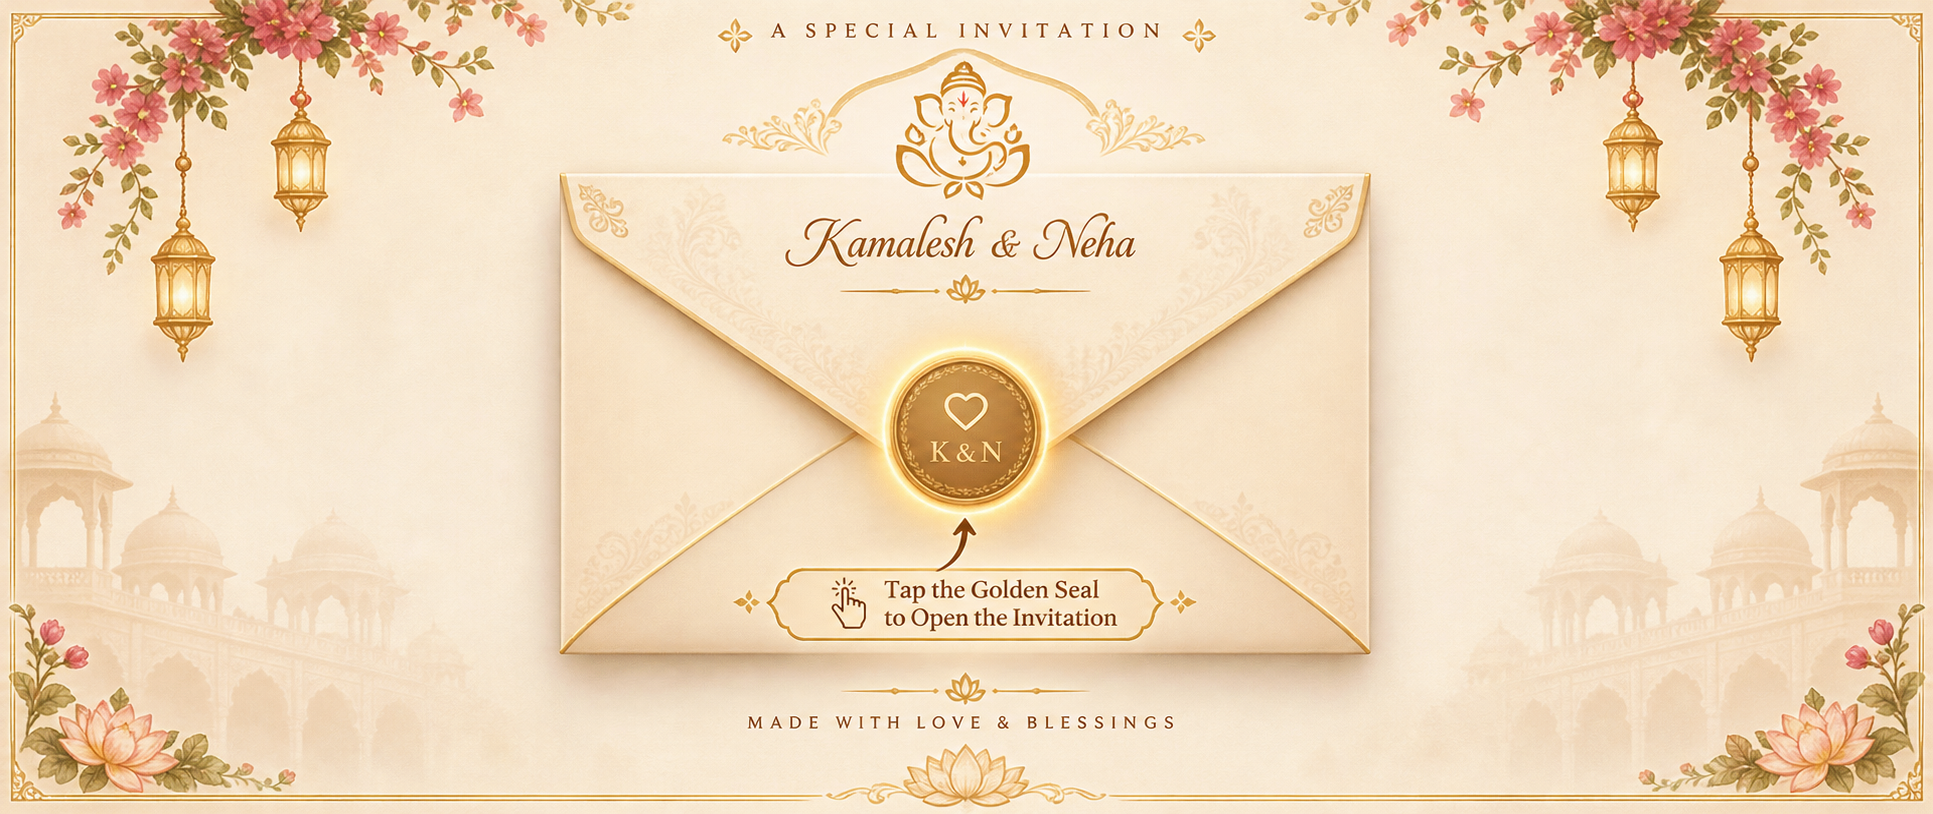
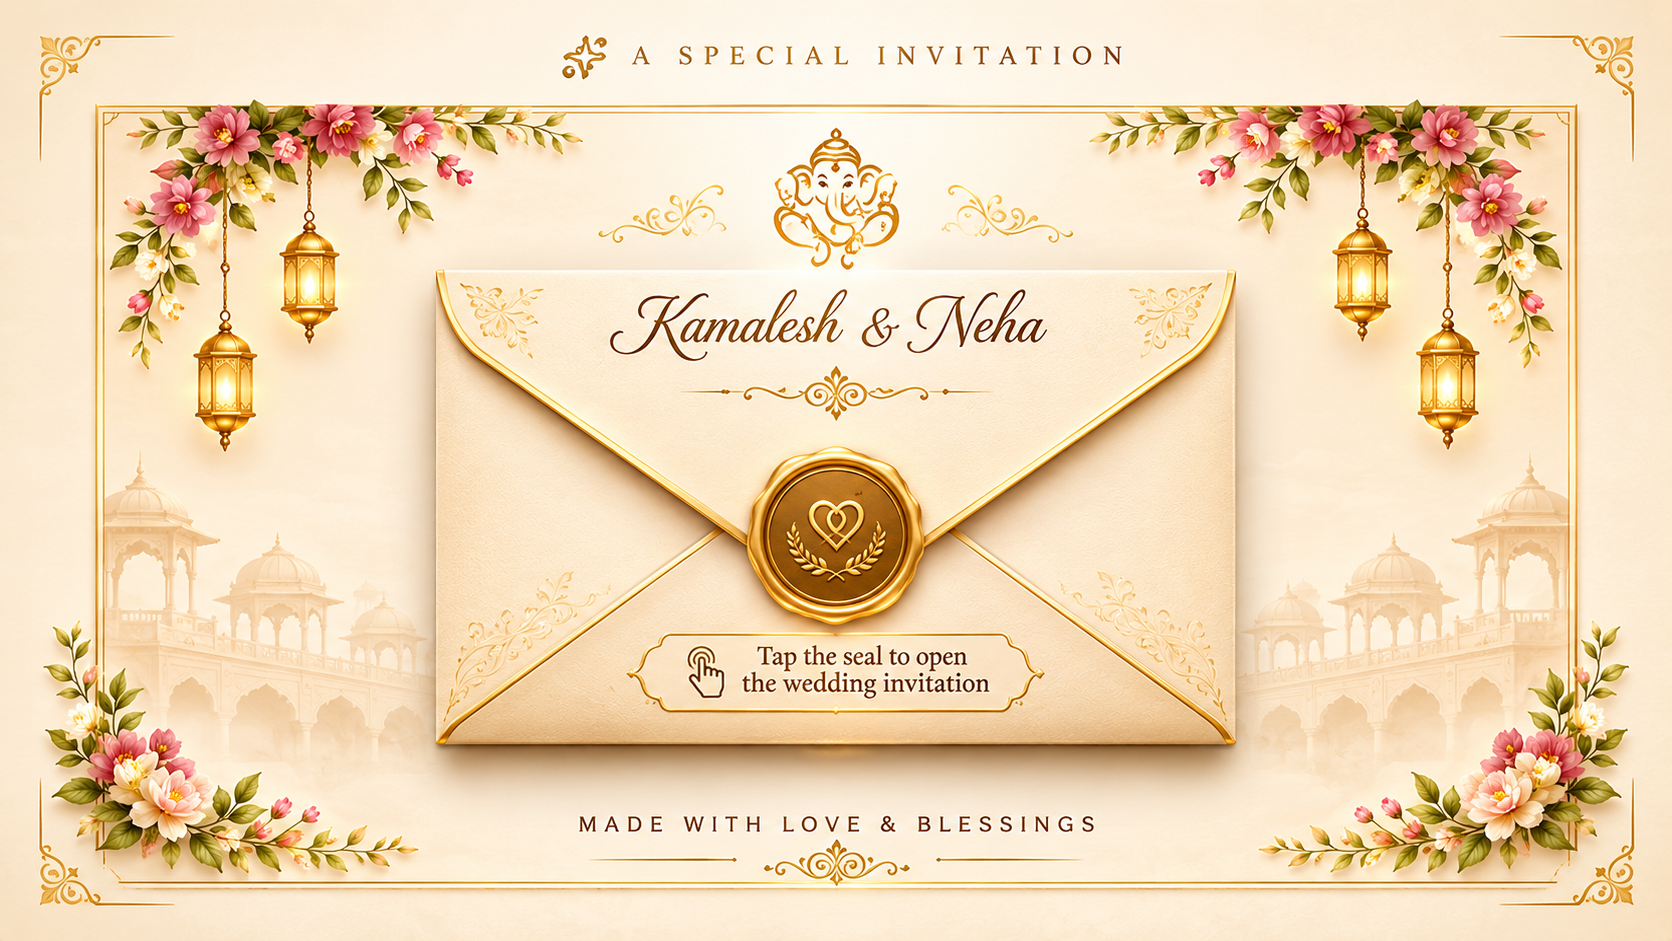
Improve mobile invitation entrance

diff --git a/src/App.css b/src/App.css
@@ -1865,31 +1865,138 @@
 /* MOBILE INVITATION ZOOM */
 
 /* MOBILE: keep the artwork and clickable seal aligned */
+.invitation-entry {
+  position: relative;
+  width: min(96vw, 1500px);
+  margin: 20px auto;
+  overflow: hidden;
+  line-height: 0;
+}
+
+.invitation-entry-image {
+  display: block;
+  width: 100%;
+  height: auto;
+  object-fit: contain;
+}
+
 @media (max-width: 650px) {
   .invitation-entry {
     width: 100%;
-    height: 100svh;
-    min-height: 100svh;
     margin: 0 auto;
-    display: flex;
-    align-items: center;
-    justify-content: center;
-    overflow: hidden;
-  }
-
-  .invitation-entry-image {
-    display: block;
-    width: 100%;
-    height: 100%;
-    object-fit: contain;
-    transform: none;
-  }
-
-  .golden-seal-hotspot {
-    left: 50%;
-    top: 50%;
-    width: 10%;
-    translate: -50% -50%;
-    transform: none;
   }
 }
+/* Correct clickable seal position for the new landscape artwork */
+.golden-seal-hotspot {
+  position: absolute !important;
+  left: 50% !important;
+  top: 57% !important;
+  translate: -50% -50%;
+  transform: none !important;
+
+  width: 10%;
+  aspect-ratio: 1;
+  border: 2px solid transparent;
+  border-radius: 50%;
+  background: transparent;
+  cursor: pointer;
+}
+
+@media (max-width: 650px) {
+  .golden-seal-hotspot {
+    left: 50% !important;
+    top: 50% !important;
+    width: 10%;
+  }
+}
+
+
+/* ✨ ROYAL GOLDEN ROTATING CLICK INDICATOR */
+
+.golden-seal-hotspot {
+  position: absolute;
+  left: 50% !important;
+  top: 57% !important;
+  translate: -50% -50%;
+  transform: none !important;
+
+  width: 10%;
+  aspect-ratio: 1;
+  border: none;
+  border-radius: 50%;
+  background: transparent;
+  cursor: pointer;
+  z-index: 10;
+  overflow: visible;
+  -webkit-tap-highlight-color: transparent;
+}
+
+/* Rotating golden light ring */
+.golden-seal-hotspot::before {
+  content: "";
+  position: absolute;
+  inset: -9px;
+  border: 3px solid transparent;
+  border-top-color: #fff7bd;
+  border-right-color: #ffbf24;
+  border-bottom-color: #ffe18a;
+  border-radius: 50%;
+  box-shadow:
+    0 0 8px #ffc52e,
+    0 0 18px rgba(255, 190, 35, 0.9),
+    inset 0 0 8px rgba(255, 210, 90, 0.7);
+  animation: goldenRotate 2s linear infinite;
+}
+
+/* Flashing golden glow */
+.golden-seal-hotspot::after {
+  content: "";
+  position: absolute;
+  inset: -5px;
+  border: 2px solid rgba(255, 210, 90, 0.9);
+  border-radius: 50%;
+  box-shadow: 0 0 15px 5px rgba(255, 190, 30, 0.65);
+  animation: goldenFlash 1.4s ease-in-out infinite;
+}
+
+@keyframes goldenRotate {
+  from {
+    transform: rotate(0deg);
+  }
+  to {
+    transform: rotate(360deg);
+  }
+}
+
+@keyframes goldenFlash {
+  0%, 100% {
+    opacity: 0.35;
+    scale: 0.92;
+    box-shadow: 0 0 8px 2px rgba(255, 190, 30, 0.4);
+  }
+  50% {
+    opacity: 1;
+    scale: 1.12;
+    box-shadow: 0 0 22px 9px rgba(255, 190, 30, 0.85);
+  }
+}
+
+/* Stop animation after opening */
+.golden-seal-hotspot:disabled {
+  animation: none;
+  cursor: default;
+}
+
+.golden-seal-hotspot:disabled::before,
+.golden-seal-hotspot:disabled::after {
+  animation: none;
+  opacity: 0;
+}
+
+@media (prefers-reduced-motion: reduce) {
+  .golden-seal-hotspot::before,
+  .golden-seal-hotspot::after {
+    animation: none;
+  }
+}
+
